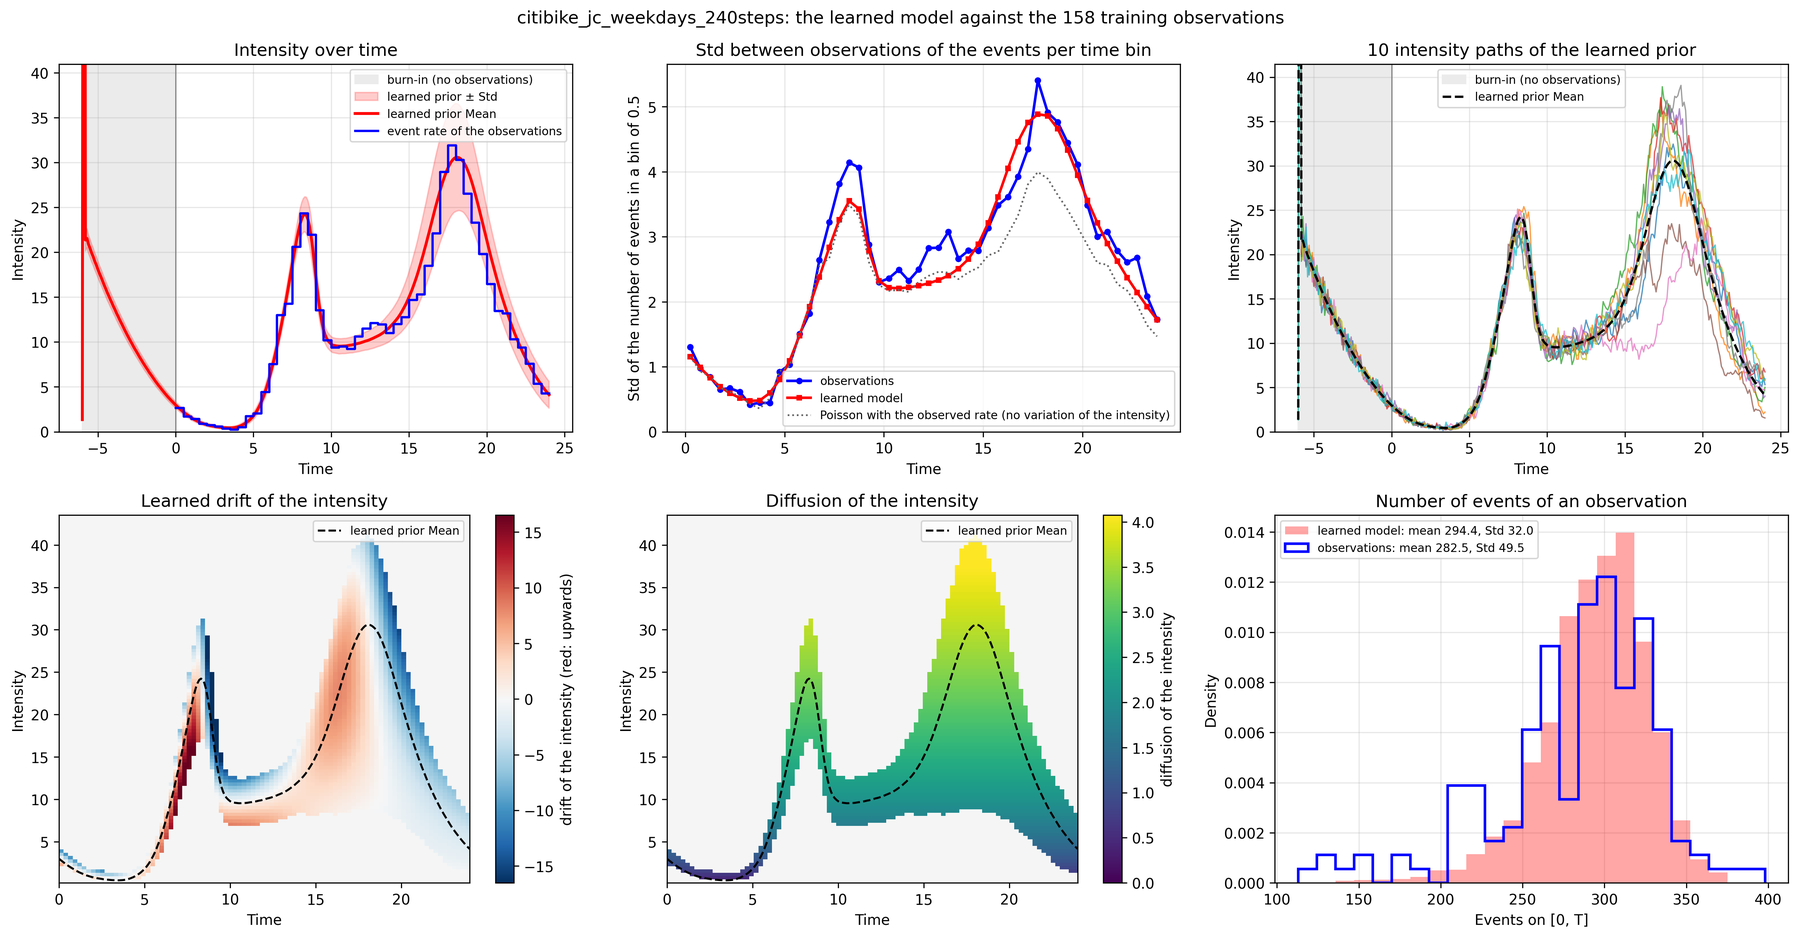
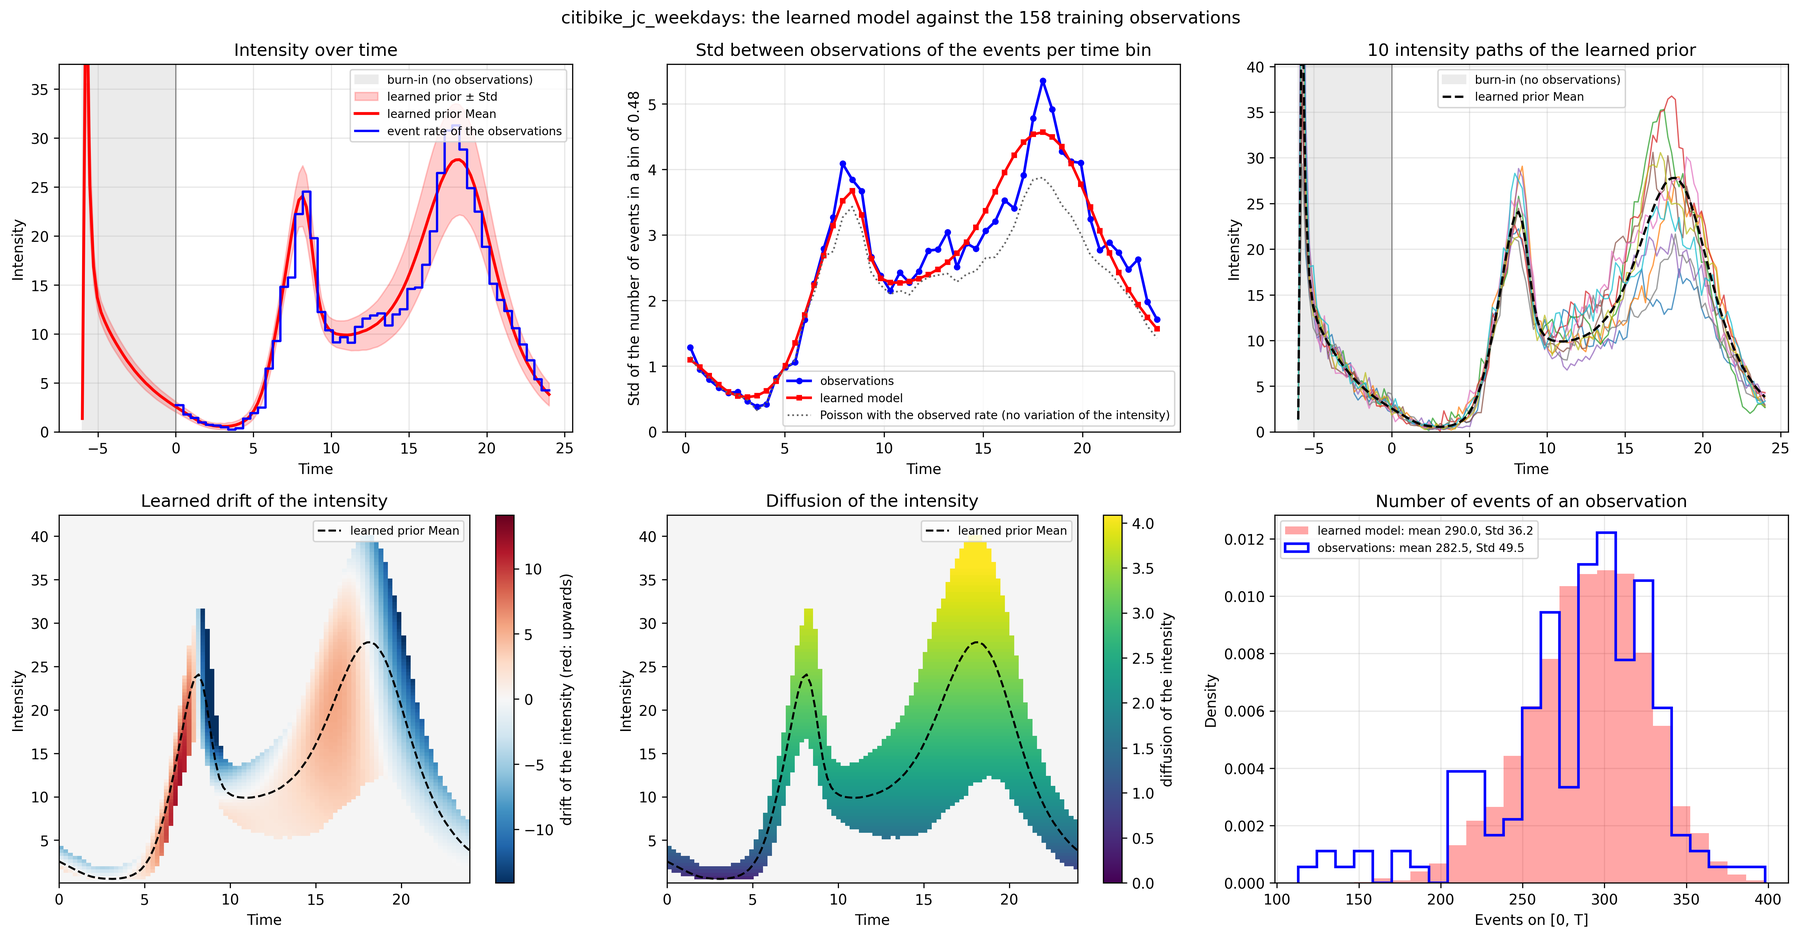
Updated the default running code for experiment 4; it now uses the default command for any unknown dataset.

diff --git a/scripts/prepare_citibike.py b/scripts/prepare_citibike.py
@@ -17,12 +17,13 @@ number of trips of every day before thinning and the settings: a file for script
 
 The script also estimates the coefficient eta of the diffusion eta * sqrt(Z) of the intensity from ALL trips of the
 training days, where it is far better determined than from the thinned observations, and converts it to the thinned
-observations (factor sqrt(keep)): the value to pass to scripts/fit.py with --eta.
+observations (factor sqrt(keep)). scripts/fit.py makes its own estimate from the thinned observations; --eta passes
+this one instead.
 
 Examples
   python scripts/prepare_citibike.py --download
   python scripts/prepare_citibike.py --raw /path/to/the/zip/files
-  python scripts/fit.py data/citibike_jc_weekdays.npz --steps 240 --epochs 60 --eta 0.665 --set train.batch_size=8
+  python scripts/fit.py data/citibike_jc_weekdays.npz
 """
 from __future__ import annotations
 
@@ -177,7 +178,9 @@ def main(argv: Optional[Sequence[str]] = None) -> int:
     print(f"kept with probability {args.keep:g} (seed {args.seed}): {counts.mean():.1f} events per day on average (from {counts.min()} to "
           f"{counts.max()}), standard deviation {counts.std(ddof=1):.1f} (a Poisson process with this mean: {np.sqrt(counts.mean()):.1f})")
     print(f"wrote {out}")
+    fit_command = f"fit: python scripts/fit.py {out}"
     if args.no_eta or len(dates) < 4:
+        print(fit_command)
         return 0
 
     from ndim.cir_eta import estimate_cir_eta
@@ -192,7 +195,8 @@ def main(argv: Optional[Sequence[str]] = None) -> int:
     print(f"coefficient of the diffusion eta * sqrt(Z), from all trips of the {len(train_idx)} training days (time in hours): {estimate.summary()}")
     print(f"for the observations kept with probability {args.keep:g}: sqrt({args.keep:g}) x {estimate.eta:.4g} = {scale * estimate.eta:.3f} "
           f"(95% interval {scale * estimate.interval[0]:.3f} to {scale * estimate.interval[1]:.3f}); figure: {figure}")
-    print(f"fit: python scripts/fit.py {out} --steps 240 --epochs 60 --eta {scale * estimate.eta:.3f} --set train.batch_size=8")
+    print(f"scripts/fit.py makes its own estimate from the thinned observations; --eta {scale * estimate.eta:.3f} passes this one instead")
+    print(fit_command)
     return 0
 
 

diff --git a/tests/test_own_data.py b/tests/test_own_data.py
@@ -374,6 +374,10 @@ def test_citibike_preparation(tmp_root: Path, capsys: pytest.CaptureFixture) -> 
                                   "--keep", "0.25", "--seed", "1"]) == 0
     printed = capsys.readouterr().out
     assert f"{len(dates)} weekdays from {dates[0]} to {dates[-1]}" in printed and "coefficient of the diffusion" in printed and "--eta" in printed
+    assert printed.rstrip().splitlines()[-1] == f"fit: python scripts/fit.py {out}"                        # the plain command: it estimates eta itself
+    assert prepare_citibike.main(["--raw", str(raw), "--years", "2025", "--out", str(out), "--keep", "0.25", "--seed", "1", "--no-eta"]) == 0
+    printed = capsys.readouterr().out
+    assert "coefficient of the diffusion" not in printed and printed.rstrip().splitlines()[-1] == f"fit: python scripts/fit.py {out}"
     assert sorted(p.name for p in raw.iterdir()) == sorted(prepare_citibike.file_names([2025]))
     content = read_event_file(out)
     assert content.T == 24.0 and _same(content.events, [e[np.isfinite(e)] for e in events])

diff --git a/scripts/fit.py b/scripts/fit.py
@@ -43,7 +43,7 @@ Results go to outputs/<name>/ in the folder the command is run in (--name; defau
 Examples
   python scripts/fit.py my_events.csv --T 24
   python scripts/fit.py my_events.csv --T 24 --dry-run
-  python scripts/fit.py data/citibike_jc_weekdays.npz --steps 240 --epochs 60 --eta 0.665 --set train.batch_size=8
+  python scripts/fit.py data/citibike_jc_weekdays.npz
   python scripts/fit.py my_events.json --T 10 --epochs 50 --profile laptop --diffusion network
 """
 from __future__ import annotations

diff --git a/README.md b/README.md
@@ -88,7 +88,7 @@ Before training, the command prints an estimate of `eta` and its 95% interval. H
 | state of the SDE | the intensity `Z` (intensity parametrization) | `X = log Z` (state-space parametrization) | `X = log Z` | `X = log Z` |
 | where a path starts | at the known `Z_0 = 5` | at `X = 0` (intensity 1) at `t = -1`; nothing is observed before time 0 | at `t = -T/4`, from the event rate at the start of the window | at `t = -T/4`, from the event rate at the start of the window |
 | drift | MLP `b_theta(z, t)` | MLP `b_theta(x, t)` | MLP `b_theta(x, t)` | MLP `b_theta(x, t)` |
-| diffusion | `sqrt(Z)`, known | `sqrt(Z)`, known; for `X` it is `exp(-X/2)` | `eta sqrt(Z)` with `eta = 0.322`, estimated from the data and not trained | `eta sqrt(Z)` with `eta = 0.665`, estimated from the data and not trained |
+| diffusion | `sqrt(Z)`, known | `sqrt(Z)`, known; for `X` it is `exp(-X/2)` | `eta sqrt(Z)` with `eta = 0.322`, estimated from the data and not trained | `eta sqrt(Z)` with `eta = 0.675`, estimated from the data and not trained |
 | posterior compared with | the exact CIR posterior | MCMC (pCN) under the true prior | MCMC (pCN) under the learned prior | MCMC (pCN) under the learned prior |
 | run it with | `experiments/intensity_cir_mlp.py` | `experiments/state_space_cir_burn_in.py` | `scripts/prepare_usbank.py`, then `scripts/fit.py` | `scripts/prepare_citibike.py`, then `scripts/fit.py` |
 
@@ -129,7 +129,7 @@ python3 scripts/prepare_citibike.py --download
 ```
 
 ```bash
-python3 scripts/fit.py data/citibike_jc_weekdays.npz --steps 240 --epochs 60 --eta 0.665 --set train.batch_size=8
+python3 scripts/fit.py data/citibike_jc_weekdays.npz
 ```
 
 ### Expected results
@@ -152,7 +152,7 @@ The posterior given the test observation with the fewest events, against MCMC un
 
 ![experiment 2: learned posterior and MCMC](docs/figures/example2_posterior.png)
 
-**Experiment 4** (60 epochs; a bit over three hours). The learned prior with 158 training observations. The figures in order: the event rate over the day, the spread of the counts between days, paths of the learned prior, the learned drift and the diffusion, and the number of events per day. The gray part before time 0 shows the burn-in period.
+**Experiment 4** (100 epochs; about an hour and a half). The learned prior with 158 training observations. The figures in order: the event rate over the day, the spread of the counts between days, paths of the learned prior, the learned drift and the diffusion, and the number of events per day. The gray part before time 0 shows the burn-in period.
 
 ![experiment 4: the learned model against the training days](docs/figures/citibike_learned_model.png)
 
